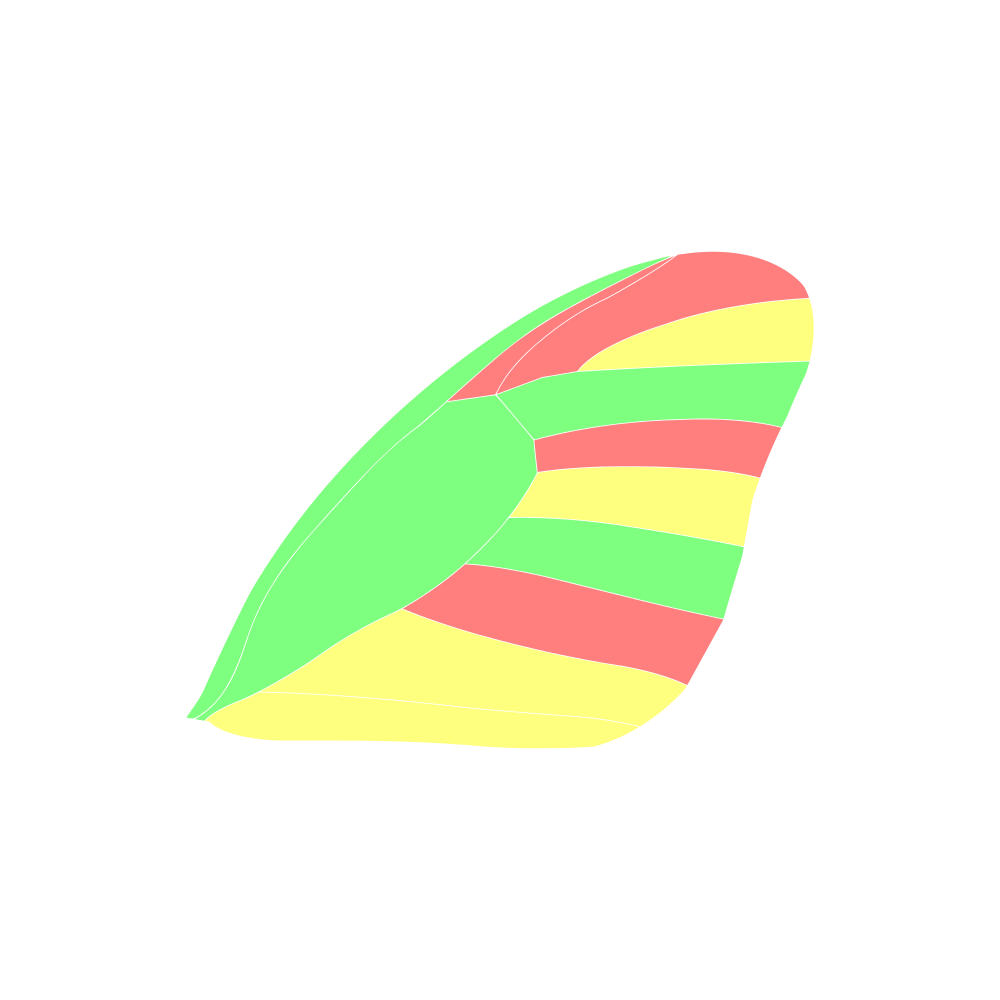
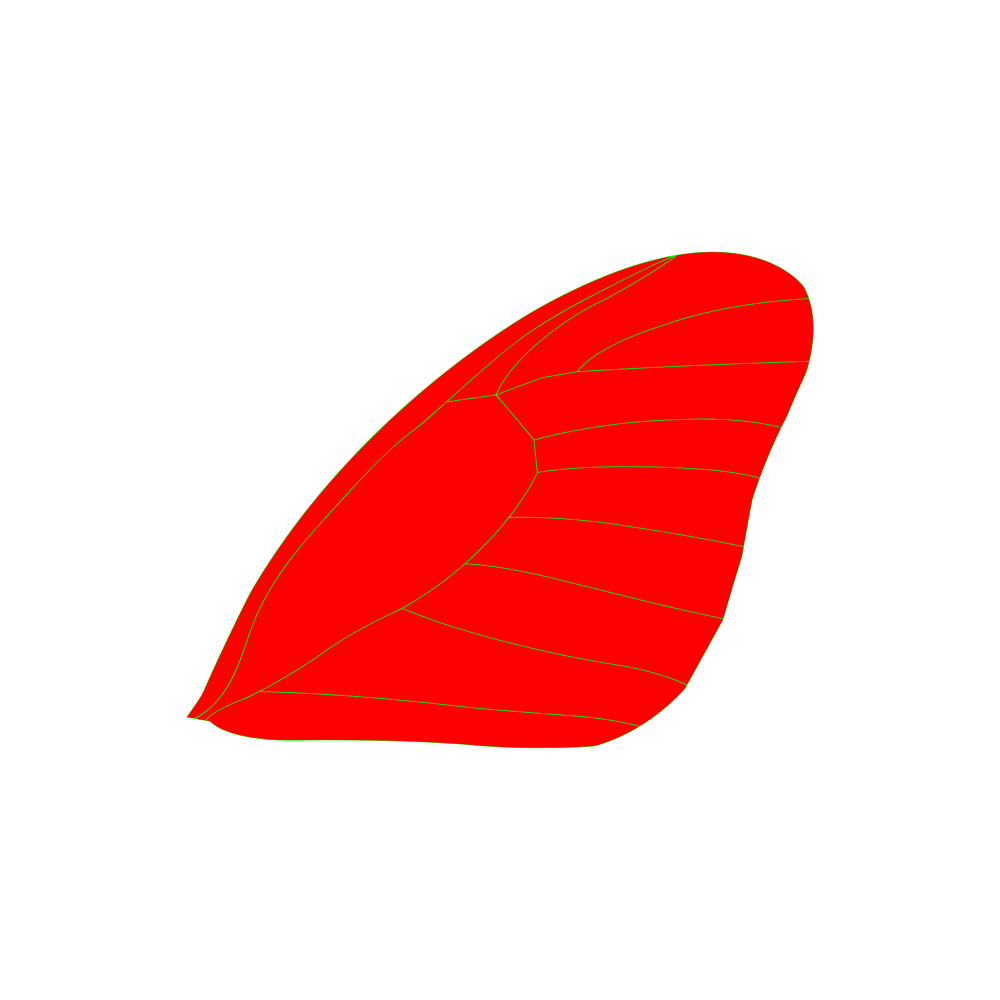
Improve silhouette merge

Changed region(s): [[0.186, 0.248, 0.837, 0.775]]

diff --git a/lib/silhouette.py b/lib/silhouette.py
@@ -12,9 +12,14 @@ class Silhouette:
         return self.mbeziers
 
     def add(self,polybezier):
-        puts("add bezier")
         self._add(polybezier)
         self.computelevels()
+
+    def adds(self,polybeziers):
+        for polybezier in polybeziers:
+            self._add(polybezier)
+        self.computelevels()
+
 
     def _add(self,polybezier):
         self.mbeziers.append(polybezier.clockwise().reverse())
@@ -25,9 +30,7 @@ class Silhouette:
         
     def loadsvgstring(self,svgstring):
         (fpoints,beziers)  = svg2bezier(svgstring)
-        for bezier in beziers:
-            self._add(bezier)
-        self.computelevels()
+        self.adds(beziers)
         return self
 
     def size(self):
@@ -37,7 +40,7 @@ class Silhouette:
         return self.mviewbox.viewport(factor)
 
     def computelevels(self):
-        puts("computelevels")
+        puts("computelevels nbeziers",len(self.mbeziers))
         allbeziers = self.mbeziers
         self.mlevels = computeshapelevels(allbeziers)
         self.mpolys  = { level: [bezier.polygon() for bezier in self.mlevels[level]] for level in self.mlevels["levels"]}
@@ -86,4 +89,7 @@ class Silhouette:
         return result
 
 def svgpaths2silhouette(svgPaths):
-    result = Silhouette.merge([path.silhouette() for path in svgPaths])
+    result = Silhouette()
+    beziers = [item for path in svgPaths for item in path.silhouette().beziers()]
+    result.adds(beziers)
+    return result

diff --git a/examples/main_wing.py b/examples/main_wing.py
@@ -9,9 +9,8 @@ from color      import *
 render = Canvas("main_wing.png").render()
 
 paths  = svgPaths("wing.svg")
-silhouettes = [path.silhouette() for path in paths if (not path.fillcolor() == None and path.fillcolor().r() > 0.5)]
-for (silhouette,ccolor) in lzip(silhouettes,[Color.green(0.5),Color.red(0.5),Color.yellow(0.5)] * 10):
-    render.drawpolygons(silhouette.polygons(0),ccolor)
-    
-
+paths = [path for path in paths if (not path.fillcolor()  == None)]
+silhouette = svgpaths2silhouette(paths)
+render.drawpolygons(silhouette.polygons(0),Color.green())
+render.drawpolygons(silhouette.polygons(1),Color.red())
 render.end()

diff --git a/examples/main_wing2.py b/examples/main_wing2.py
@@ -12,5 +12,6 @@ render = Canvas("main_wing2.png").render()
 paths  = svgPaths("wing2.svg")
 silhouette = svgpaths2silhouette(paths)
 render.drawpolygons(silhouette.polygons(0),Color.black())
-render.drawpolygons(silhouette.polygons(1),Color.white())
+render.drawpolygons(silhouette.polygons(1),Color.red())
+render.drawpolygons(silhouette.polygons(2),Color.green())
 render.end()
